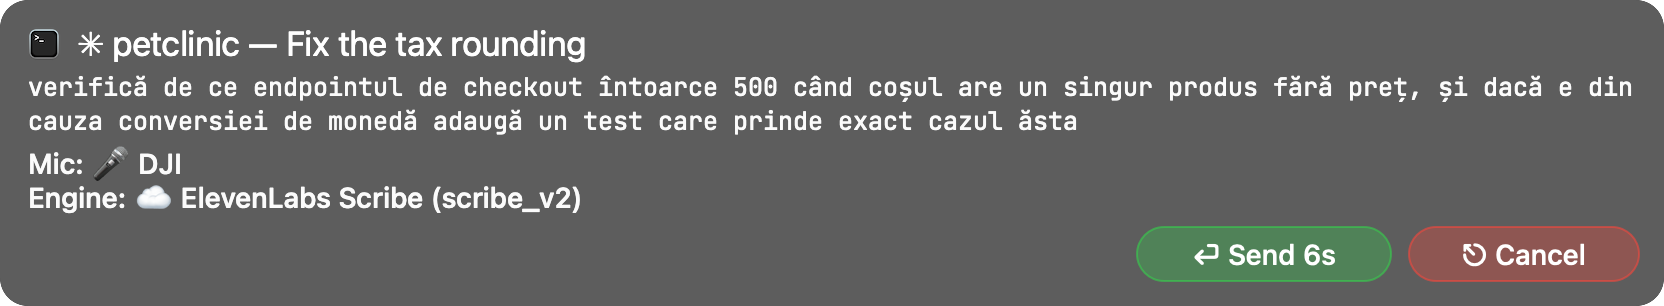
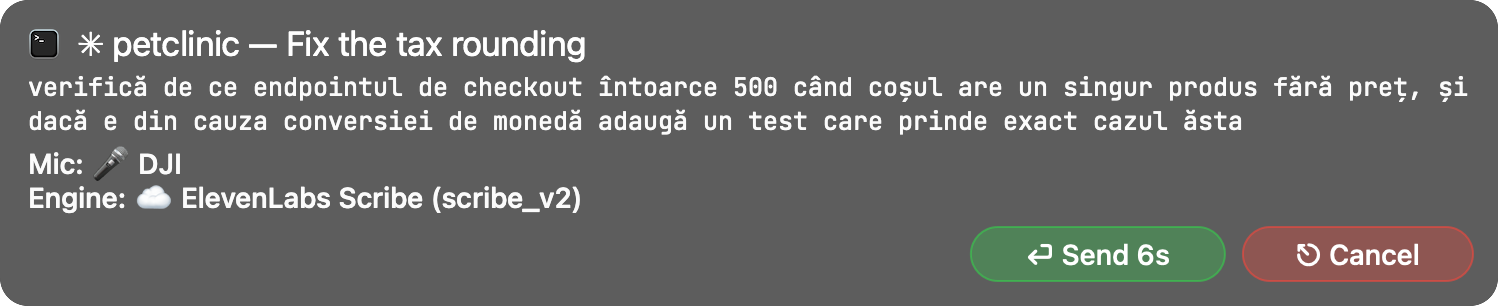
🩹 The bottom tab's wave sits closer to its emojis, the same on both sides
Victor: "reduce a bit the space to left/right of the sound wave in that
overlay". The gaps were 28 pt (microphone → wave) and 19.5 pt (wave → engine
emoji), both mostly the shine's glow room: ae11f75 meant to kern it back out,
but kern is ignored on an attachment and stops at a space's own width (8.3 pt
at bold 40), so the room stayed in the line. The emojis now ride an
OverhangCell: the line advances by the bare glyph, the glow draws over the
neighbours. Both gaps are ~16 pt, and the engine emoji → name gap is a plain
space again (was 25 pt). The states page is regenerated as the repo asks; its
prompt-panel diffs come from earlier commits, not this one.

diff --git a/Sources/WalkieTalkie/MicAnnouncer.swift b/Sources/WalkieTalkie/MicAnnouncer.swift
@@ -387,15 +387,19 @@ private final class BottomTab {
                 out.append(NSAttributedString(string: part, attributes: attrs))
                 continue
             }
-            // The glow's room kerned out on both sides, so the emoji sits where
-            // the bare character would.
-            let pad = ShineGlyph.pad(font)
-            let before = NSMutableAttributedString(string: String(part[..<at]), attributes: attrs)
-            if before.length > 0 { before.addAttribute(.kern, value: -pad, range: NSRange(location: before.length - 1, length: 1)) }
-            out.append(before)
+            // The glow's room spills over the neighbours instead of widening the
+            // line, so the emoji sits where the bare character would (kern could
+            // not do it: it is ignored on an attachment and stops at a space's
+            // own width — 2026-10-12, the wave had 28 pt on one side, 19.5 on
+            // the other, until Victor: "reduce a bit the space to left/right of
+            // the sound wave").
+            out.append(NSAttributedString(string: String(part[..<at]), attributes: attrs))
             let glyph = ShineGlyph.image(String(part[at]), font: font, shine: shine)
-            attach(glyph.image, bounds: glyph.bounds)
-            out.addAttribute(.kern, value: -pad, range: NSRange(location: out.length - 1, length: 1))
+            let a = NSTextAttachment()
+            a.attachmentCell = OverhangCell(glyph.image, bounds: glyph.bounds, overhang: ShineGlyph.pad(font))
+            let s = NSMutableAttributedString(attachment: a)
+            s.addAttributes(attrs, range: NSRange(location: 0, length: s.length))
+            out.append(s)
             out.append(NSAttributedString(string: String(part[part.index(after: at)...]), attributes: attrs))
         }
         return out
@@ -467,6 +471,37 @@ private final class BottomTab {
     private static func screenUnderMouse() -> NSScreen? {
         let p = NSEvent.mouseLocation
         return NSScreen.screens.first { NSMouseInRect(p, $0.frame, false) } ?? NSScreen.main
+    }
+}
+
+/// An attachment whose image runs `overhang` past its slot on the left and
+/// right: the line advances by the slot alone, the image draws over whatever
+/// is beside it. `ShineGlyph`'s glow room, which must not push the words apart.
+final class OverhangCell: NSTextAttachmentCell {
+    private let picture: NSImage, slot: NSRect, overhang: CGFloat
+
+    init(_ picture: NSImage, bounds: NSRect, overhang: CGFloat) {
+        self.picture = picture
+        self.overhang = overhang
+        slot = NSRect(x: 0, y: bounds.minY, width: bounds.width - 2 * overhang, height: bounds.height)
+        super.init(imageCell: nil)
+    }
+    required init(coder: NSCoder) { fatalError("not decoded") }
+
+    override func cellSize() -> NSSize { slot.size }
+    override func cellBaselineOffset() -> NSPoint { NSPoint(x: 0, y: slot.minY) }
+    override func cellFrame(for textContainer: NSTextContainer, proposedLineFragment lineFrag: NSRect,
+                            glyphPosition position: NSPoint, characterIndex charIndex: Int) -> NSRect { slot }
+    override func draw(withFrame cellFrame: NSRect, in controlView: NSView?) {
+        picture.draw(in: cellFrame.insetBy(dx: -overhang, dy: 0), from: .zero, operation: .sourceOver,
+                     fraction: 1, respectFlipped: true, hints: nil)
+    }
+    override func draw(withFrame cellFrame: NSRect, in controlView: NSView?, characterIndex charIndex: Int) {
+        draw(withFrame: cellFrame, in: controlView)
+    }
+    override func draw(withFrame cellFrame: NSRect, in controlView: NSView?, characterIndex charIndex: Int,
+                       layoutManager: NSLayoutManager) {
+        draw(withFrame: cellFrame, in: controlView)
     }
 }
 

diff --git a/docs/overlay-states.html b/docs/overlay-states.html
@@ -686,9 +686,9 @@
       <section class="card" id="prompt-inline">
         <header>
           <h3>The prompt, with its pictures where they were taken</h3>
-          <div class="tags"><span class="tag tag-panel" title="top-left of the screen, blurred, full opacity, ✕ on hover">panel</span><span class="tag">alpha 1.00</span><span class="tag">832×616 pt</span></div>
+          <div class="tags"><span class="tag tag-panel" title="top-left of the screen, blurred, full opacity, ✕ on hover">panel</span><span class="tag">alpha 1.00</span><span class="tag">749×584 pt</span></div>
         </header>
-        <div class="shot"><img src="states/prompt-inline.png" width="832" height="616" style="opacity:1" alt="The prompt, with its pictures where they were taken"></div>
+        <div class="shot"><img src="states/prompt-inline.png" width="749" height="584" style="opacity:1" alt="The prompt, with its pictures where they were taken"></div>
         <p class="when">Word timings placed the markers (ElevenLabs, local): every <code>[📸N…]</code> token in the words.</p>
         <p class="note">2026-10-07, Victor: the panel must show <em>where</em> each thing landed, to check the annotation. A picture token ends its paragraph, captions the picture drawn under it — the ✂ cut-out, or the frame — and the words carry on below. A highlight or a picked element is its own indented paragraph. Frames the words did not take (here the automatic one) stay in the strip.</p>
         <code class="slug">prompt-inline</code>
@@ -726,9 +726,9 @@
       <section class="card" id="prompt-long">
         <header>
           <h3>A long transcript</h3>
-          <div class="tags"><span class="tag tag-panel" title="top-left of the screen, blurred, full opacity, ✕ on hover">panel</span><span class="tag">alpha 1.00</span><span class="tag">832×153 pt</span></div>
+          <div class="tags"><span class="tag tag-panel" title="top-left of the screen, blurred, full opacity, ✕ on hover">panel</span><span class="tag">alpha 1.00</span><span class="tag">749×153 pt</span></div>
         </header>
-        <div class="shot"><img src="states/prompt-long.png" width="832" height="153" style="opacity:1" alt="A long transcript"></div>
+        <div class="shot"><img src="states/prompt-long.png" width="749" height="153" style="opacity:1" alt="A long transcript"></div>
         <p class="when">A sentence that does not fit one line — the panel wraps and grows.</p>
         <p class="note">Width is capped at a third of the screen and the height at what is left of it; the transcript row is measured by asking the label, not by a parallel calculation, because any disagreement is a sentence that silently stops.</p>
         <code class="slug">prompt-long</code>
@@ -765,7 +765,7 @@
       </section>
     </div>
 <footer>
-  Generated from <code>OverlayStates.swift</code> · repo at 9271317 · 12 Oct 2026 · built 12 Oct 2026, 10:58
+  Generated from <code>OverlayStates.swift</code> · repo at 0bcab27 · 12 Oct 2026 · built 12 Oct 2026, 23:15
 </footer>
 <button class="toggle" onclick="document.body.classList.toggle('light')">Backdrop: dark / light</button>
 </body>
